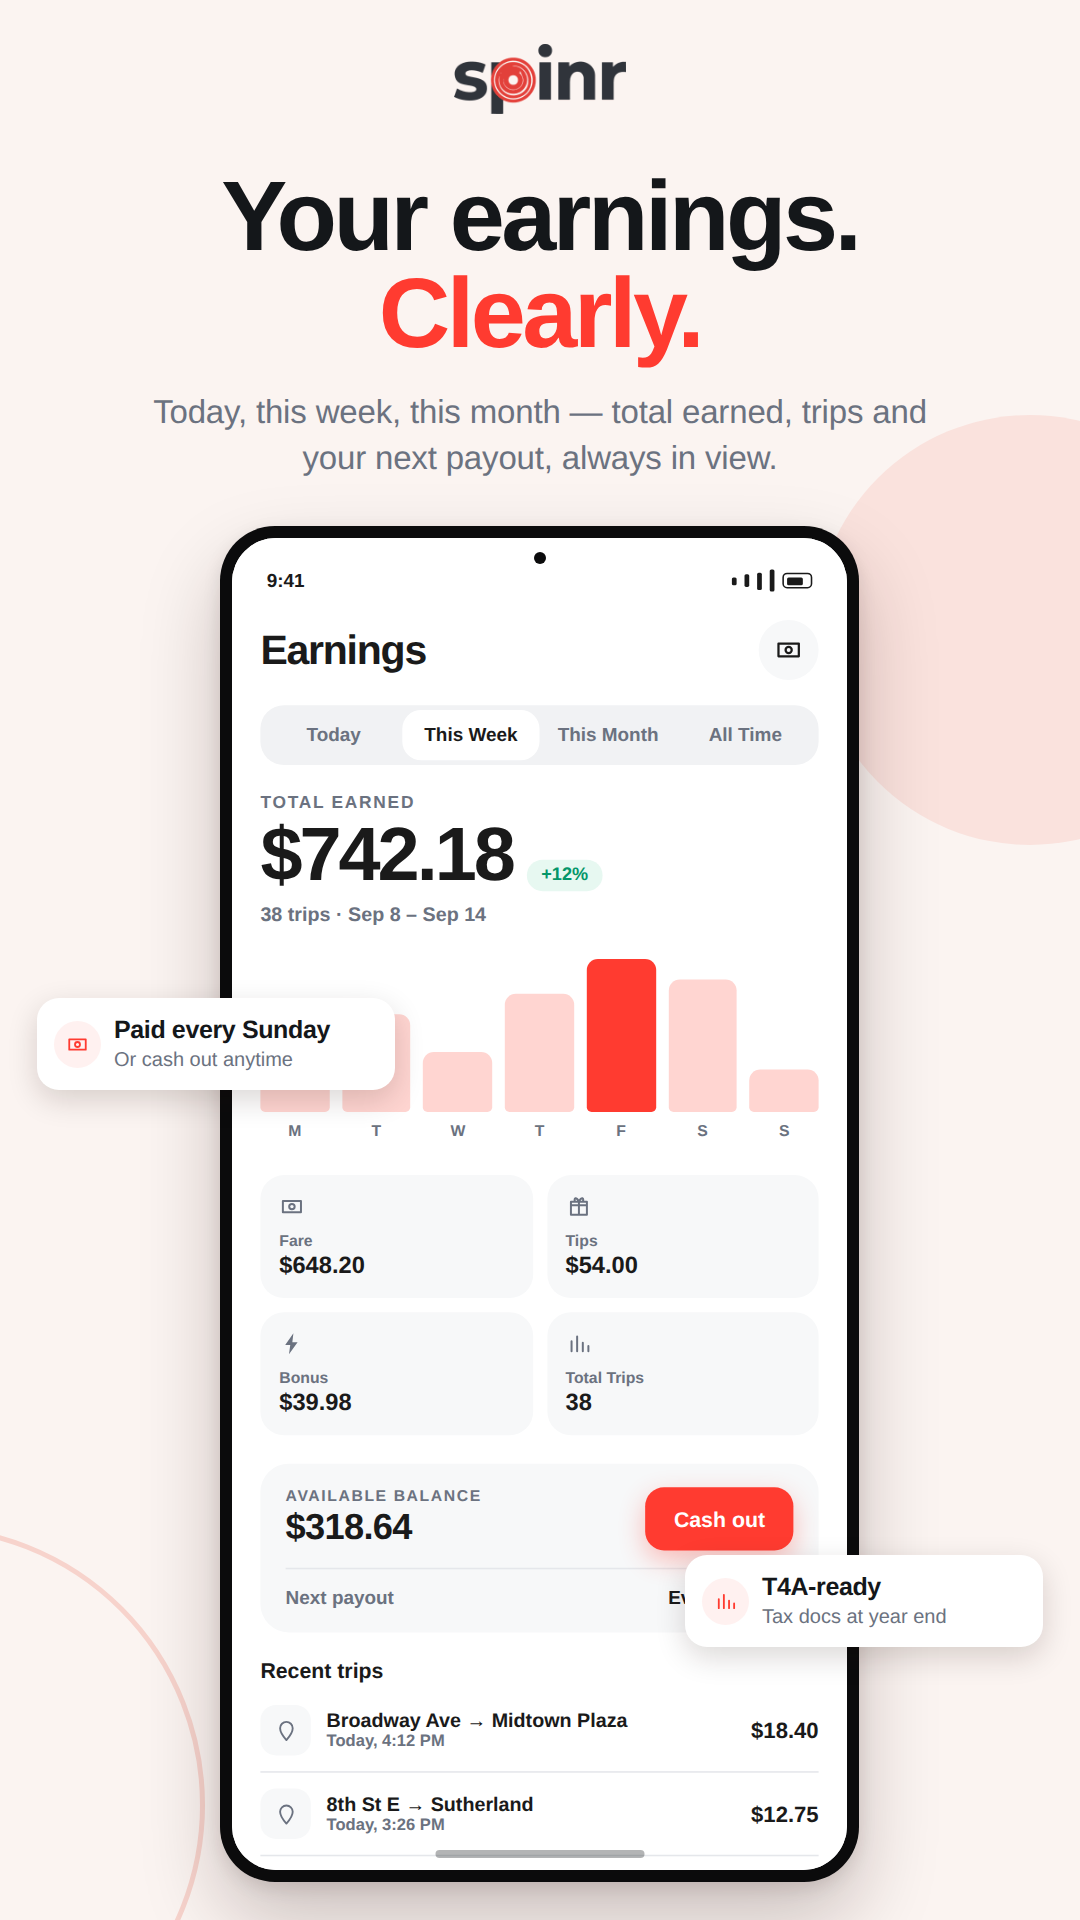
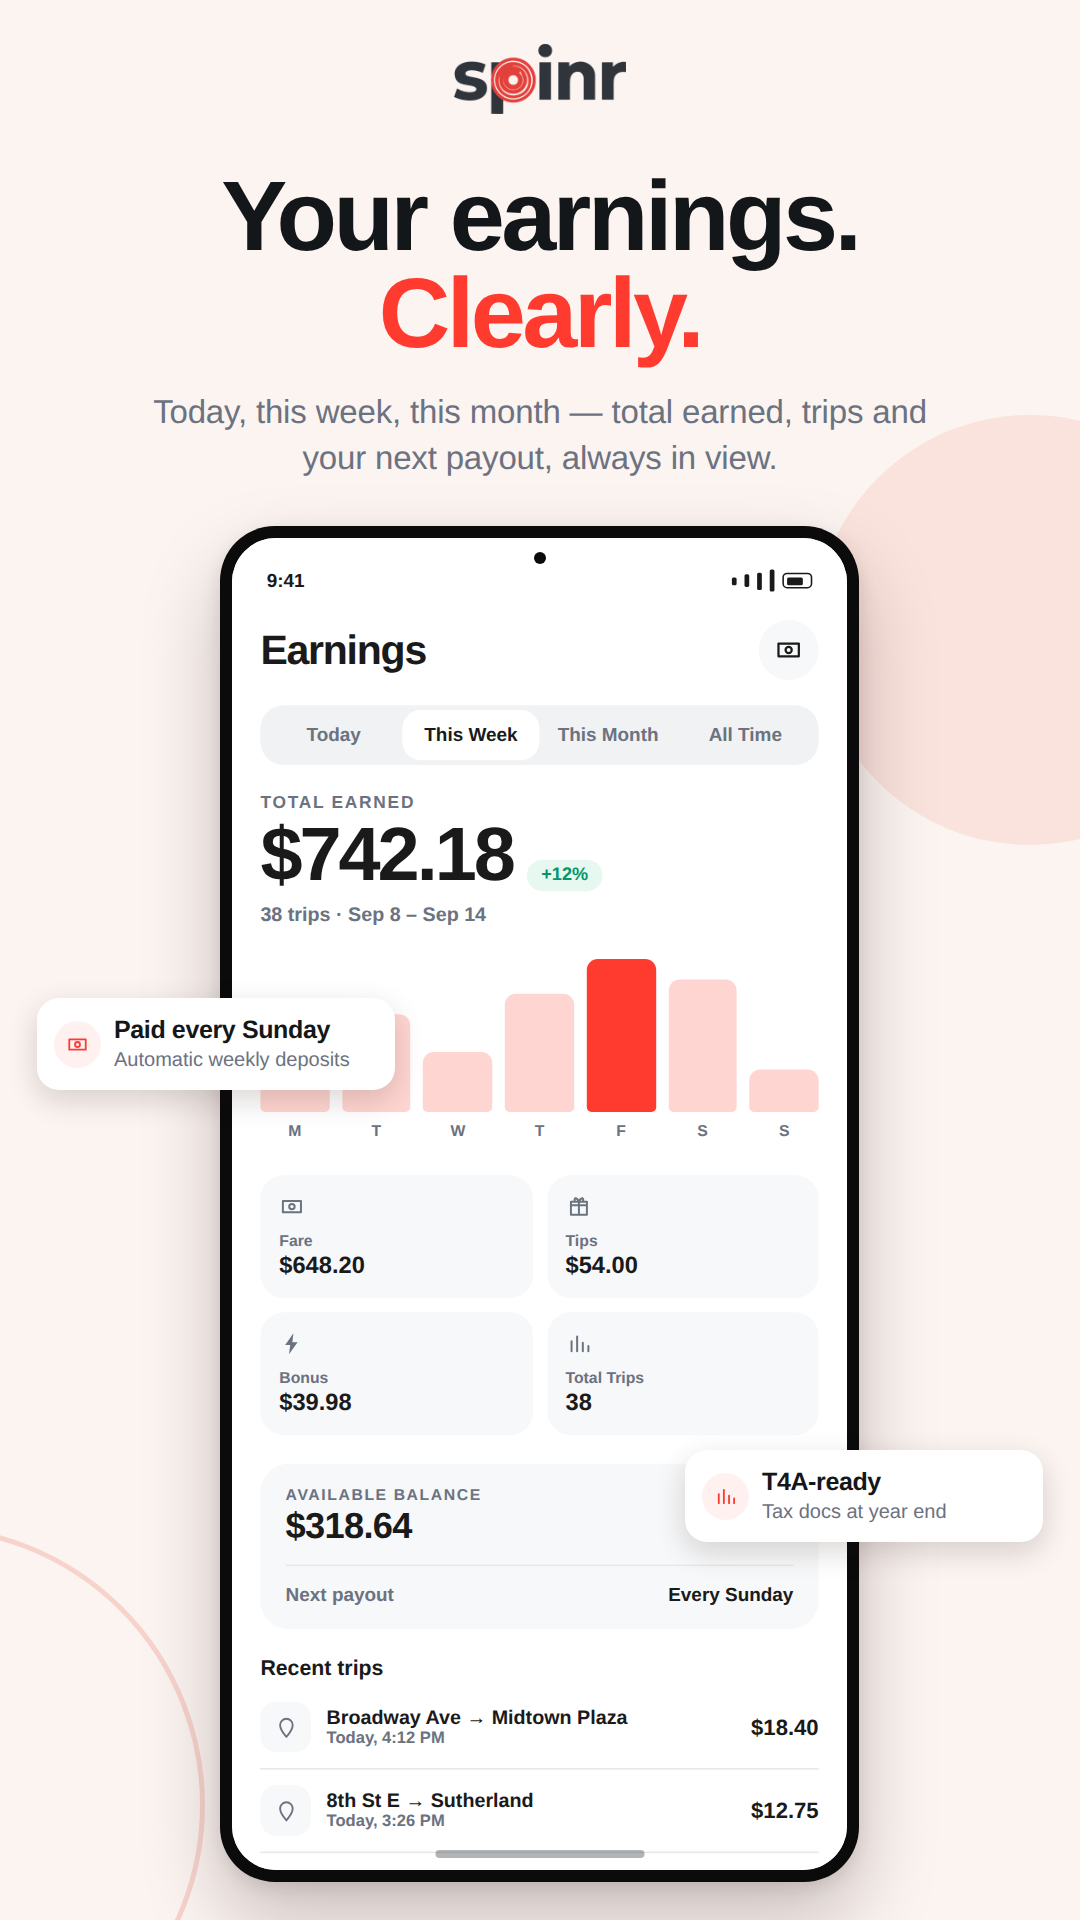
chore(driver-app): regenerate store screenshots for weekly-only payouts (#5820)
* chore(driver-app): regenerate store screenshots for weekly-only payouts

PR #5810 removed the mock "Cash out" button and the "Or cash out anytime"
caption from the screenshot generator but did not re-render the PNGs, so
the committed 01-drive-canadian and 06-earnings sets still showed an
instant cash-out button. Re-rendered all 48 artboards; only those two
screens changed (12 PNGs), the other 36 are byte-identical.

The 06 "T4A-ready" callout moves from 0.81 to 0.755 of canvas height:
at 0.81 it sat over the "Next payout — Every Sunday" row, hiding the
weekly schedule. It now covers the empty right half of the balance card
where the Cash out button used to be.

Co-developed with Claude Code (claude-sonnet-5)

Claude-Session: https://claude.ai/code/session_01PPGd1wK6WRzbtxcGj3qNkX

* docs(change-log): store listing matches weekly-only payouts

Change Impact Log for the regenerated driver store screenshots: sweep
scope and result (metadata text already correct after #5810), the
callout move, the App Store Connect / Play Console upload steps a human
must do, and follow-ups outside this branch's ownership.

Co-developed with Claude Code (claude-sonnet-5)

Claude-Session: https://claude.ai/code/session_01PPGd1wK6WRzbtxcGj3qNkX

---------

diff --git a/driver-app/store-assets/generate_screenshots.py b/driver-app/store-assets/generate_screenshots.py
@@ -1004,7 +1004,7 @@ def build_cards(b, logo):
             "always in view.",
             scr_earnings(), logo, [
                 ("left", 0.52, ic("cash"), "Paid every Sunday", "Automatic weekly deposits"),
-                ("right", 0.81, ic("chart"), "T4A-ready", "Tax docs at year end"),
+                ("right", 0.755, ic("chart"), "T4A-ready", "Tax docs at year end"),
             ]), CREAM),
         ("07-rider-pin", light_card(
             b, "The right rider,<br>every <em>time</em>",

diff --git a/docs/change-log/2026-09-25-store-listing-weekly-payouts.md b/docs/change-log/2026-09-25-store-listing-weekly-payouts.md
@@ -1,0 +1,118 @@
+# Change Impact & Risk Log: store listing matches weekly-only payouts
+
+## Summary
+
+| Field | Value |
+|---|---|
+| Date | 2026-09-25 |
+| Author | Claude Code (agent session) |
+| Surface(s) | driver-app (store screenshots and generator only, no app code) |
+| Domain (Sentry tag) | drivers / payments (listing copy only, no runtime code) |
+| PR / commit link | branch `claude/store-listing-weekly-payouts` |
+| Related issue or gap ID | Owner decision 2026-09-25 (weekly-only payouts, PR #5810); in-app disputes removed (PR #5811) |
+
+## 1. Issue / gap identified
+
+The committed Spinr Driver store screenshots still showed a "Cash out" button on the earnings screen (`01-drive-canadian` and `06-earnings`, 12 PNGs across 6 sizes). Spinr pays drivers only through the weekly Sunday auto-payout, so the button advertised a feature that no longer exists. On `06-earnings`, the "T4A-ready" callout card also covered the "Next payout: Every Sunday" row, which hid the weekly schedule.
+
+## 2. Root cause
+
+PR #5810 fixed the generator source (`generate_screenshots.py`: removed the mock button and the "Or cash out anytime" caption) and the `metadata.json` text. It did not re-render the PNGs, and it left a note that a human had to do that. The callout overlap had been there before: the callout's `y_fraction` (0.81) was chosen while the Cash out button still made the balance card taller.
+
+## 3. Fix / remediation
+
+- Re-ran `python3 driver-app/store-assets/generate_screenshots.py`, which renders all 48 artboards. Only `01-drive-canadian` and `06-earnings` changed (12 PNGs). The other 36 came out byte-identical to the committed files, so the render is deterministic in this container and nothing else drifted.
+- `06-earnings`: moved the "T4A-ready" callout from `0.81` to `0.755` of canvas height. It now sits over the empty right half of the Available Balance card, where the Cash out button used to be, and "Next payout: Every Sunday" is fully visible. I checked this visually on android-1080x1920, ios-1290x2796, ios-1320x2868 and ipad-2048x2732.
+- Text sweep: no change was needed. I checked every store listing field in `driver-app/store-assets/metadata.json` (description, full_description, short_description, subtitle, promotional_text, release_notes, review_notes) and `rider-app/store-assets/metadata.json`. PR #5810 had already changed both driver descriptions and both release notes to "Weekly automatic payouts". Neither file claims instant payouts or an in-app dispute feature. The driver copy's "Keep 100% of every fare" is unchanged.
+
+Sweep patterns (case-insensitive): `instant pay`, `instantly pay`, `cash out` / `cashout`, `paid instantly`, `get paid instantly`, `payout on demand`, `on-demand payout`, `instant transfer`, `same-day payout`, `dispute`.
+
+Paths swept: `driver-app/store-assets/**`, `rider-app/store-assets/**`, `driver-app/app.config.ts`, `rider-app/app.config.ts`, `driver-app/eas.json`, `rider-app/eas.json` (no store description or release-notes fields there), `.github/workflows/submit-play-store.yml` (no listing text), `docs/growth/**`, `docs/comms/**`, `docs/runbooks/app-store-review.md`. The repo has no fastlane metadata directory and no website/marketing copy directory.
+
+Reviewed and kept on purpose:
+- `08-quests` callout "Straight to wallet / The moment you hit it", and its subtitle "land straight in your wallet". Quest rewards are credited to the in-app wallet balance (`backend/routes/quests.py`, `reward_type` `wallet_credit`). That describes a wallet credit, not a bank payout, so it does not conflict with weekly payouts.
+- `02-go-online` "Go live instantly" and the description line "Go online instantly". These are about going online, not about payouts.
+
+## 4. Risk & impact on existing functionality
+
+Blast radius: **isolated**. The generator is a standalone script. Nothing imports it, and no runtime code reads the PNGs. The live app, backend and admin-dashboard are unaffected. The committed PNGs only reach users when someone uploads them to App Store Connect or Play Console.
+
+The only other consumer of the screenshots is `driver-app/store-assets/README.md`, which describes the screens and upload slots. Its screen table ("06-earnings | Your earnings. Clearly.") is still accurate, so I did not edit it.
+
+Alternative considered: regenerate only the two affected screens by hand-filtering the output. Rejected because the generator has no per-screen flag (only per-artboard). A full render also shows that the other 36 PNGs have not drifted, and that check is worth more than a narrower run.
+
+## 5. User-experience effect
+
+- **Drivers and prospective drivers** browsing the store listing will stop seeing a Cash out button, and will see "Every Sunday" as the next payout. They see this only after a human uploads the new PNGs (see section 8a). Until then the live listing is unchanged.
+- The running app does not change, so nobody sees a mid-session difference.
+- Headlines, subtitles and captions are unchanged. The only copy change is the one PR #5810 already made ("Automatic weekly deposits").
+
+## 6. Files modified
+
+| File path | What changed | Why |
+|---|---|---|
+| `driver-app/store-assets/generate_screenshots.py` | `06-earnings` T4A callout `y_fraction` 0.81 → 0.755 | Stop the callout hiding "Next payout: Every Sunday" |
+| `driver-app/store-assets/screenshots/*-01-drive-canadian.png` (6 files) | Re-rendered | Remove the stale Cash out button |
+| `driver-app/store-assets/screenshots/*-06-earnings.png` (6 files) | Re-rendered | Remove the Cash out button, show "Automatic weekly deposits", show the Sunday schedule |
+| `docs/change-log/2026-09-25-store-listing-weekly-payouts.md` | New | This log |
+
+## 7. Before / after
+
+```
+# Before (committed PNG, rendered from the pre-#5810 generator)
+AVAILABLE BALANCE  $318.64                 [ Cash out ]
+Next payout                         [T4A-ready card covering "Every Sunday"]
+Callout: "Paid every Sunday / Or cash out anytime"
+```
+
+```
+# After
+AVAILABLE BALANCE  $318.64          [T4A-ready card in the empty right half]
+Next payout                                    Every Sunday
+Callout: "Paid every Sunday / Automatic weekly deposits"
+```
+
+```python
+# generate_screenshots.py, build_cards() 06-earnings
+- ("right", 0.81, ic("chart"), "T4A-ready", "Tax docs at year end"),
++ ("right", 0.755, ic("chart"), "T4A-ready", "Tax docs at year end"),
+```
+
+## 8. Rollback plan
+
+Repo-side: no live data is involved, so reverting the commit is enough. It restores the previous PNGs and the callout position.
+
+Store-side: if the new screenshots are already uploaded and have to come back down, re-upload the previous PNGs from git history (`git show <prev-sha>:driver-app/store-assets/screenshots/<file>`) in the same console screens listed below. Screenshot changes on both stores go out with the next listing/version review, so no app redeploy is needed.
+
+### 8a. Human step: uploading to the stores
+
+The agent cannot upload. A person with console access must do it:
+
+- **App Store Connect:** My Apps → Spinr Driver → App Store tab → select the version → **Screenshots** (6.9" slot: `ios-1320x2868-*`, 6.5": `ios-1284x2778-*`, 5.5": `ios-1242x2208-*`, iPad 13": `ipad-2048x2732-*`). If any live **Promotional text** or **Description** differs from `metadata.json`, update it on the same page.
+- **Google Play Console:** Spinr Driver → Grow → Store presence → Main store listing → Phone screenshots (`android-1080x1920-*`). Check that the full description matches `metadata.json` (it should say "Weekly automatic payouts to your bank").
+- Replace at least the `01` and `06` screenshots in every slot. The other screenshots did not change.
+
+## 9. Verification performed
+
+- [x] Generator run in this container: headless Chromium from `/opt/pw-browsers` (the generator's first candidate path), 48/48 rendered, and every PNG's pixel size asserted by the generator itself.
+- [x] `git status` after the render: only the 12 PNGs for `01` and `06` changed; the other 36 are byte-identical.
+- [x] Opened and visually inspected `android-1080x1920-06-earnings`, `ios-1290x2796-06-earnings`, `ios-1320x2868-06-earnings`, `ipad-2048x2732-06-earnings` and `ios-1320x2868-01-drive-canadian`. None has a Cash out button. The callout reads "Paid every Sunday / Automatic weekly deposits", and "Next payout: Every Sunday" is fully visible on each `06` file.
+- [x] Blast-radius grep: patterns and paths as listed in section 3.
+- [x] Driver classification: the new and moved copy adds no control-of-work language.
+- [ ] No automated tests exist for the store-asset generator. No production app build is relevant because no app code changed.
+
+## What was NOT verified
+
+- The live App Store Connect and Play Console listings were not inspected. I cannot see what is currently published, so I cannot confirm it matches `metadata.json`.
+- I did not open `ios-1242x2208-*` and `ios-1284x2778-*` visually. They use the same layout formula as the sizes I checked, so the callout position was reasoned about for them, not seen.
+- Headlines still use the fallback grotesque font, not Plus Jakarta Sans. That was already true (see the README's "Brand font"), and this change does not affect it.
+- The rider-app has no screenshot generator and no committed screenshots, so nothing was regenerated for it.
+
+## Follow-ups outside this change's ownership (not edited)
+
+| Location | What it says | Suggested fix |
+|---|---|---|
+| `backend/migrations/212_seed_saskatchewan_driver_faqs.sql` / `325_faq_answers_drop_ai_voice.sql` (DB-seeded FAQ), mirrored in `docs/driver-faqs-saskatchewan.md:179-181` | "When and how do I get paid?" gives no schedule | Now that weekly-only is policy, a new migration could state "paid out automatically every week (Sunday) to your bank account" |
+| `docs/runbooks/saskatoon-launch.md:274` | "within 24 h (instant payout if enabled)" | Drop the instant clause |
+| `.agents/roles/business-analyst.md:117`, `.agents/roles/manager.md:44` | List "Instant cashout" / "Instant payout / cash out" as a product feature | Mark as not offered (weekly only) |
+| `driver-app/app/driver/payout.tsx:549` | Code comment "able to cash out" | Comment-only wording |
